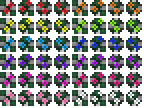
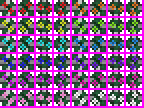
Bugfix: When switching Trellis Flower color, it would always choose the 1st style of each color. Trellis vine recipe now uses vine rope instead of vine. Added wall vines and wall flower vines. Improved trellis flower texture.

diff --git a/Items/Botanic/WallFlowerVines.cs b/Items/Botanic/WallFlowerVines.cs
@@ -6,13 +6,13 @@ using Terraria.ModLoader;
 
 namespace DragonsDecorativeMod.Items.Botanic
 {
-    public class TrellisFlowerVines : ModItem
+    public class WallFlowerVines : ModItem
     {
         public int styleSecton = 0;
 
         public override void SetStaticDefaults()
         {
-            DisplayName.SetDefault("Trellis Flower Vines");
+            DisplayName.SetDefault("Wall Flower Vines");
             Tooltip.SetDefault("Right click to cycle between 12 colors + randomized color.");
             CreativeItemSacrificesCatalog.Instance.SacrificeCountNeededByItemId[Type] = 1;
         }
@@ -28,7 +28,7 @@ namespace DragonsDecorativeMod.Items.Botanic
             Item.useTime = 15;
             Item.useStyle = ItemUseStyleID.Swing;
             Item.consumable = true;
-            Item.createTile = ModContent.TileType<Tiles.Botanic.TrellisFlowerVines>();
+            Item.createTile = ModContent.TileType<Tiles.Botanic.WallFlowerVines>();
             Item.placeStyle = 0;
         }
 
@@ -61,7 +61,7 @@ namespace DragonsDecorativeMod.Items.Botanic
         public override void AddRecipes()
         {
             CreateRecipe()
-              .AddIngredient(ModContent.ItemType<TrellisVines>())
+              .AddIngredient(ModContent.ItemType<WallVines>())
               .AddIngredient(ItemID.FlowerPacketWild)
               .AddTile(TileID.WorkBenches)
               .Register();

diff --git a/Items/Botanic/WallVines.cs b/Items/Botanic/WallVines.cs
@@ -5,11 +5,11 @@ using Terraria.GameContent.Creative;
 
 namespace DragonsDecorativeMod.Items.Botanic
 {
-    public class TrellisVines : ModItem
+    public class WallVines : ModItem
     {
         public override void SetStaticDefaults()
         {
-            DisplayName.SetDefault("Trellis Vines");
+            DisplayName.SetDefault("Wall Vines");
             CreativeItemSacrificesCatalog.Instance.SacrificeCountNeededByItemId[Type] = 1;
         }
 
@@ -24,7 +24,7 @@ namespace DragonsDecorativeMod.Items.Botanic
             Item.useTime = 15;
             Item.useStyle = ItemUseStyleID.Swing;
             Item.consumable = true;
-            Item.createTile = ModContent.TileType<Tiles.Botanic.TrellisVines>();
+            Item.createTile = ModContent.TileType<Tiles.Botanic.WallVines>();
             Item.placeStyle = 0;
         }
 
@@ -37,7 +37,6 @@ namespace DragonsDecorativeMod.Items.Botanic
         public override void AddRecipes()
         {
             CreateRecipe()
-              .AddIngredient(ModContent.ItemType<TrellisEmpty>())
               .AddIngredient(ItemID.VineRope)
               .AddTile(TileID.WorkBenches)
               .Register();

diff --git a/Tiles/Botanic/WallFlowerVines.cs b/Tiles/Botanic/WallFlowerVines.cs
@@ -1,0 +1,32 @@
+using Microsoft.Xna.Framework;
+using Terraria;
+using Terraria.DataStructures;
+using Terraria.ModLoader;
+using Terraria.ObjectData;
+
+namespace DragonsDecorativeMod.Tiles.Botanic
+{
+    public class WallFlowerVines : ModTile
+    {
+        public override void SetStaticDefaults()
+        {
+            Main.tileFrameImportant[Type] = true;
+            Main.tileLavaDeath[Type] = true;
+            Main.tileNoAttach[Type] = true;
+
+            TileObjectData.newTile.CopyFrom(TileObjectData.Style1x1);
+            TileObjectData.newTile.AnchorBottom = AnchorData.Empty;
+            TileObjectData.newTile.StyleHorizontal = true;
+            TileObjectData.newTile.StyleWrapLimit = 8;
+            TileObjectData.addTile(Type);
+
+            AddMapEntry(new Color(64, 128, 64));
+        }
+
+        public override bool Drop(int i, int j)
+        {
+            Item.NewItem(new EntitySource_TileBreak(i, j), i * 16, j * 16, 16, 16, ModContent.ItemType<Items.Botanic.WallFlowerVines>());
+            return base.Drop(i, j);
+        }
+    }
+}

diff --git a/Tiles/Botanic/WallVines.cs b/Tiles/Botanic/WallVines.cs
@@ -1,0 +1,32 @@
+using Microsoft.Xna.Framework;
+using Terraria;
+using Terraria.DataStructures;
+using Terraria.ModLoader;
+using Terraria.ObjectData;
+
+namespace DragonsDecorativeMod.Tiles.Botanic
+{
+    public class WallVines : ModTile
+    {
+        public override void SetStaticDefaults()
+        {
+            Main.tileFrameImportant[Type] = true;
+            Main.tileLavaDeath[Type] = true;
+            Main.tileNoAttach[Type] = true;
+
+            TileObjectData.newTile.CopyFrom(TileObjectData.Style1x1);
+            TileObjectData.newTile.AnchorBottom = AnchorData.Empty;
+            TileObjectData.newTile.StyleHorizontal = true;
+            TileObjectData.newTile.StyleWrapLimit = 8;
+            TileObjectData.addTile(Type);
+
+            AddMapEntry(new Color(0, 128, 0));
+        }
+
+        public override bool Drop(int i, int j)
+        {
+            Item.NewItem(new EntitySource_TileBreak(i, j), i * 16, j * 16, 16, 16, ModContent.ItemType<Items.Botanic.WallVines>());
+            return base.Drop(i, j);
+        }
+    }
+}
